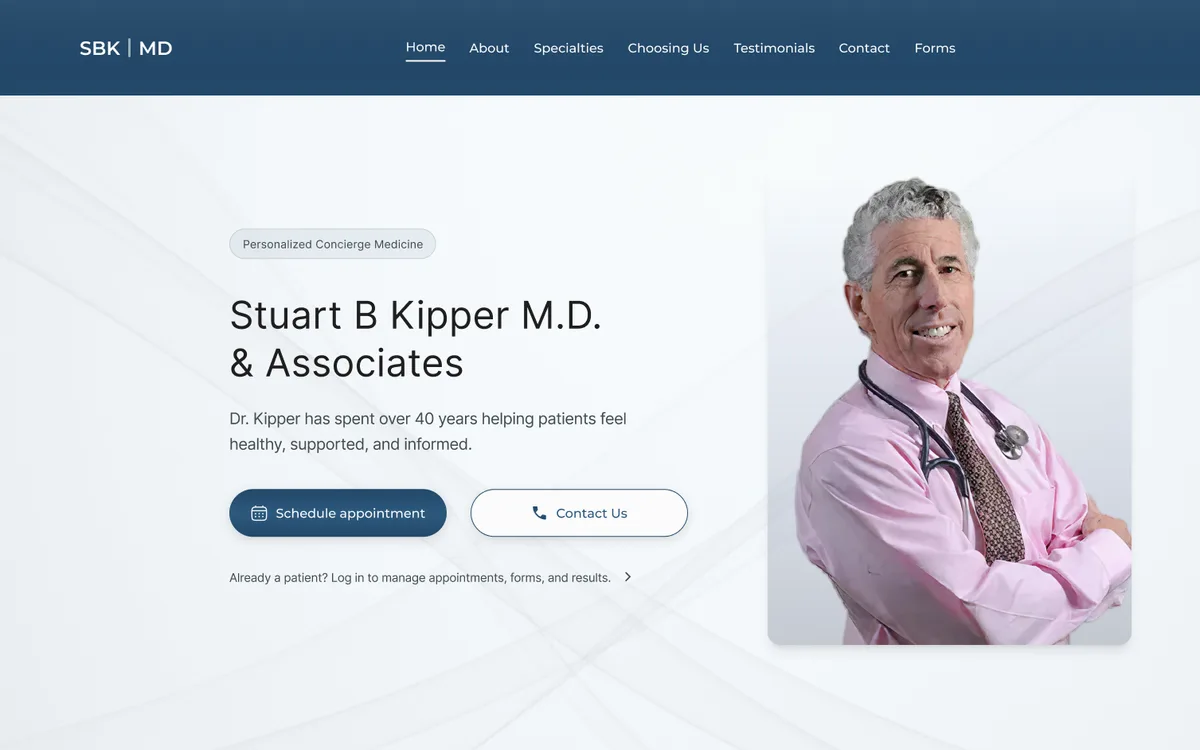
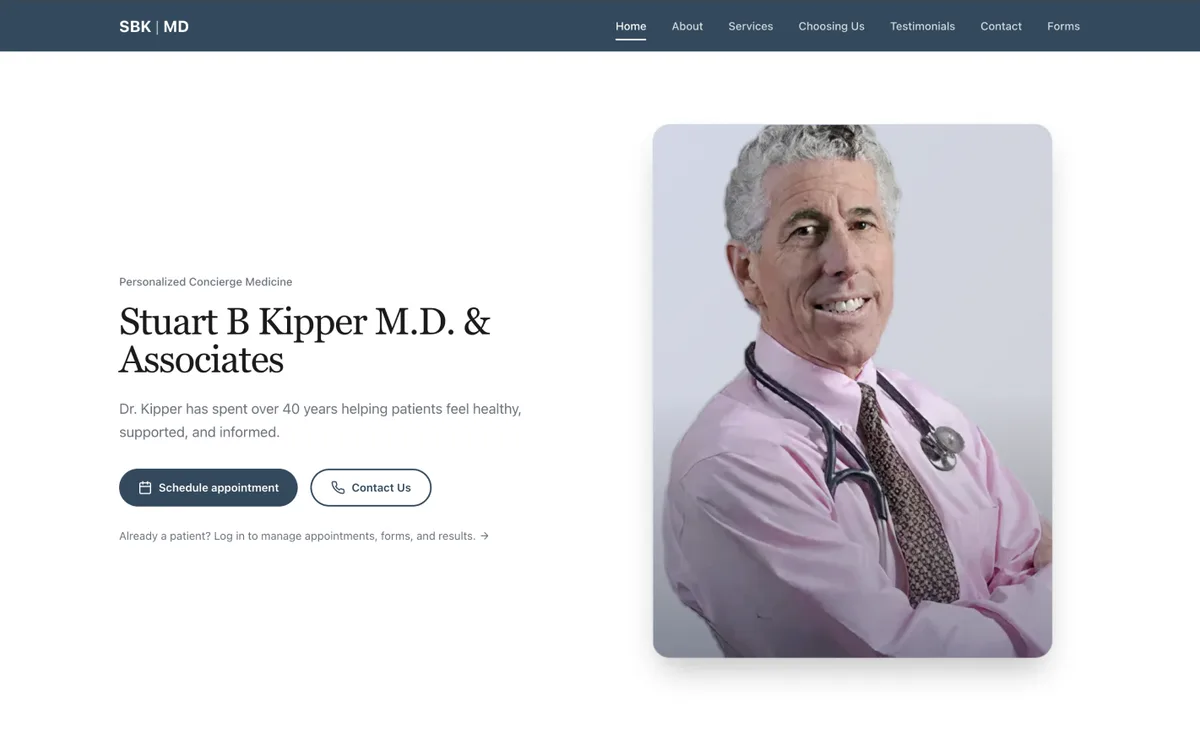
feat(home): replace SBK MD carousel thumbnail with updated screenshot

diff --git a/sanity/scripts/updateSbkImage.ts b/sanity/scripts/updateSbkImage.ts
@@ -1,0 +1,34 @@
+import { getCliClient } from 'sanity/cli'
+import { createReadStream } from 'node:fs'
+
+const client = getCliClient()
+const PUBLIC = '/Users/harrisonkipper/Claude/Projects/HEK Designs/hekds/public/images/portfolio'
+
+async function run() {
+  const doc = await client.getDocument('homepage')
+  if (!doc) throw new Error('no homepage doc')
+  const work: any[] = (doc as any).featuredWork || []
+  const sbk = work.find((w) => /sbk/i.test(w.label || ''))
+  if (!sbk) throw new Error('no SBK item')
+
+  const asset = await client.assets.upload('image', createReadStream(`${PUBLIC}/sbk.webp`), {
+    filename: 'sbk.webp',
+  })
+  console.log('uploaded ->', asset._id)
+
+  await client
+    .patch('homepage')
+    .set({
+      [`featuredWork[_key=="${sbk._key}"].image`]: {
+        _type: 'image',
+        asset: { _type: 'reference', _ref: asset._id },
+      },
+    })
+    .commit()
+  console.log('patched SBK image, key', sbk._key)
+}
+
+run().catch((e) => {
+  console.error(e)
+  process.exit(1)
+})
